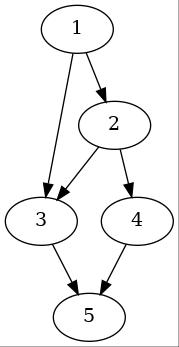
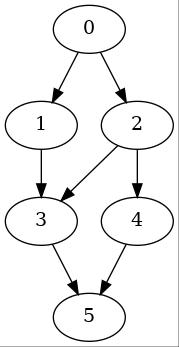
Add Lab 11

diff --git a/Grafos/Grafo_Lab_11.cpp b/Grafos/Grafo_Lab_11.cpp
@@ -1,0 +1,184 @@
+#include <bits/stdc++.h>
+using namespace std;
+
+class GraphLista{
+private:
+	int numNodos; // Numero de Nodos
+	vector<vector<int>> lista; // Grafo - Listas de Adyacencia
+	vector<bool> v;
+	vector<bool> visited;
+	bool vis[10000]={false};
+
+public:
+	GraphLista(int numNodos){
+		this->numNodos = numNodos;
+		this->lista.resize(numNodos + 1);
+	}
+
+	void insertarNodo(int nodo){
+		if(nodo > lista.size()){
+			this->numNodos++;
+			lista.resize(numNodos);
+		}
+	}
+
+	void insertarArista(int nodoA, int nodoB){
+		lista[nodoA].push_back(nodoB);
+		// lista[nodoB].push_back(nodoA);
+	}
+
+	void borrarNodo(int nodo){
+		if(nodo < lista.size()){
+			vector<int>::iterator it;
+			for(size_t i = 0; i < numNodos; i++){
+				borrarArista(i, nodo);
+			}
+			lista.erase(lista.begin()+nodo);
+			this->numNodos--;	
+		}
+		
+	}
+
+	void borrarArista(int nodoA, int nodoB){
+		vector<int>::iterator it;
+		it = find(lista[nodoA].begin(), lista[nodoA].end(), nodoB);
+		
+		if(it != lista[nodoA].end()) lista[nodoA].erase(it);
+	}
+
+	bool esVacio() const {
+		if(lista.size() == 0) return true;
+		else return false;
+	}
+
+	bool existeNodo(int nodo) const {
+		if(nodo < lista.size()) return true;
+		else return false;
+	}
+
+	bool sonAdyacentes(int nodoA, int nodoB) const {
+		for(int i = 0; i < lista[nodoA].size(); i++){
+			if(lista[nodoA][i] == nodoB) return true;
+		}
+		return false;
+	}
+
+	void verAdyacencias() const {
+		for(int i = 0; i < lista.size(); i++){
+			cout << "vertice " << i << " -> ";
+			for(int j = 0; j < lista[i].size(); j++){
+				cout << lista[i][j] << ' ';
+			}
+			cout << '\n';
+		}
+	}
+
+	void dfs(int i){
+        if(vis[i]==false){
+            vis[i]=true;
+            cout << i << " - ";
+            for(int it:lista[i]){
+                if(vis[it]==false){
+                    dfs(it);
+                }
+            }
+        }
+    }
+
+	void bfs(int u){
+	    queue<int> q;
+        vector<int> visited(numNodos);
+        q.push(u);
+        visited[u]=1;
+        while(not q.empty()){
+            int temp=q.front();
+            cout << temp << " - ";
+            q.pop();
+            for(int i=0;i<lista[temp].size();i++){
+                if(visited[lista[temp][i]]==0){
+                    visited[lista[temp][i]]=1;
+                    q.push(lista[temp][i]);
+                }
+            }
+        }
+	}
+
+	void graficar(){
+	    FILE * file;
+	    file = fopen("grafo.dot","w+");
+	    fprintf(file,"digraph G {\n");
+	    getDot(file);
+	    fprintf(file,"}");
+	    fclose(file);
+	    system("dot grafo.dot -o grafica.jpg -Tjpg -Grankdir=TB && xdg-open grafica.jpg");
+	}
+
+	void getDot(FILE * file){
+
+		for(int i = 0; i < lista.size(); i++){
+			fprintf(file,"x%d[label=\"%i\"];\n",i,i);
+			for(int j = 0; j < lista[i].size(); j++){
+				fprintf(file,"x%d->x%d[arrowhead = normal];\n",i,lista[i][j]);
+			}
+		}
+	}
+
+};
+
+
+int main(){
+
+	// n: numero de vertices
+	// m: numero de aristas
+	int n,m;
+	cin>>n>>m;
+	GraphLista grafo(n-1);
+
+	// arista de a -> b
+	int a,b;
+	while(m--){
+		cin>>a>>b;
+		grafo.insertarArista(a,b);
+	}
+
+	cout << "Grafo Original" << '\n';
+	grafo.verAdyacencias();
+
+	cout << '\n';
+    
+    /*
+	cout << "Insertar Arista 3-4" << '\n';
+	grafo.insertarArista(3,4);
+	grafo.verAdyacencias();
+
+	cout << '\n';
+
+	// cout << "Eliminar nodo 3" << '\n';
+	// grafo.borrarNodo(3);
+	// grafo.verAdyacencias();
+
+	cout << "Borrar Arista 3-4" << '\n';
+	grafo.borrarArista(3,4);
+	grafo.verAdyacencias();
+
+	cout << '\n';
+
+	cout << "Es vacio? " << grafo.esVacio() << '\n';
+	cout << "Existe nodo 3? " << grafo.existeNodo(3) << '\n';
+	cout << "Son Adyacentes? 1-3? " << grafo.sonAdyacentes(1,3) << '\n';
+
+	cout << '\n';
+    */
+    
+	cout << "BFS:" << '\n';
+	grafo.bfs(0);
+	
+	cout << '\n';
+	
+	cout << "DFS:" << '\n';
+	grafo.dfs(0);
+
+	grafo.graficar();
+
+	return 0;
+}

diff --git a/Grafos/Grafo_Lab_10.cpp b/Grafos/Grafo_Lab_10.cpp
@@ -1,0 +1,141 @@
+#include <bits/stdc++.h>
+using namespace std;
+
+class GraphLista{
+private:
+	int numNodos; // Numero de Nodos
+	vector<vector<int>> lista; // Grafo - Listas de Adyacencia
+public:
+	GraphLista(int numNodos){
+		this->numNodos = numNodos;
+		this->lista.resize(numNodos + 1);
+	}
+
+	void insertarNodo(int nodo){
+		if(nodo > lista.size()){
+			this->numNodos++;
+			lista.resize(numNodos);
+		}
+	}
+
+	void insertarArista(int nodoA, int nodoB){
+		lista[nodoA].push_back(nodoB);
+	}
+
+	void borrarNodo(int nodo){
+		if(nodo < lista.size()){
+			vector<int>::iterator it;
+			for(size_t i = 0; i < numNodos; i++){
+				borrarArista(i, nodo);
+			}
+			lista.erase(lista.begin()+nodo);
+			this->numNodos--;	
+		}
+		
+	}
+
+	void borrarArista(int nodoA, int nodoB){
+		vector<int>::iterator it;
+		it = find(lista[nodoA].begin(), lista[nodoA].end(), nodoB);
+		
+		if(it != lista[nodoA].end()) lista[nodoA].erase(it);
+	}
+
+	bool esVacio() const {
+		if(lista.size() == 0) return true;
+		else return false;
+	}
+
+	bool existeNodo(int nodo) const {
+		if(nodo < lista.size()) return true;
+		else return false;
+	}
+
+	bool sonAdyacentes(int nodoA, int nodoB) const {
+		for(int i = 0; i < lista[nodoA].size(); i++){
+			if(lista[nodoA][i] == nodoB) return true;
+		}
+		return false;
+	}
+
+	void verAdyacencias() const {
+		for(int i = 0; i < lista.size(); i++){
+			cout << "vertice " << i << " -> ";
+			for(int j = 0; j < lista[i].size(); j++){
+				cout << lista[i][j] << ' ';
+			}
+			cout << '\n';
+		}
+	}
+
+	void graficar(){
+	    FILE * file;
+	    file = fopen("grafo.dot","w+");
+	    fprintf(file,"digraph G {\n");
+	    getDot(file);
+	    fprintf(file,"}");
+	    fclose(file);
+	    system("dot grafo.dot -o grafica.jpg -Tjpg -Grankdir=TB && xdg-open grafica.jpg");
+	}
+
+	void getDot(FILE * file){
+
+		for(int i = 1; i < lista.size(); i++){
+			fprintf(file,"x%d[label=\"%i\"];\n",i,i);
+			for(int j = 0; j < lista[i].size(); j++){
+				fprintf(file,"x%d->x%d[arrowhead = normal];\n",i,lista[i][j]);
+			}
+		}
+	}
+
+};
+
+
+int main(){
+
+	// n: numero de vertices
+	// m: numero de aristas
+	int n,m;
+	cin>>n>>m;
+	GraphLista grafo(n);
+
+	// arista de a -> b
+	int a,b;
+	while(m--){
+		cin>>a>>b;
+		grafo.insertarArista(a,b);
+	}
+
+	cout << "Grafo Original" << '\n';
+	grafo.verAdyacencias();
+
+	cout << '\n';
+
+	cout << "Insertar Arista 3-4" << '\n';
+	grafo.insertarArista(3,4);
+	grafo.verAdyacencias();
+
+	cout << '\n';
+
+	// cout << "Eliminar nodo 3" << '\n';
+	// grafo.borrarNodo(3);
+	// grafo.verAdyacencias();
+
+	cout << "Borrar Arista 3-4" << '\n';
+	grafo.borrarArista(3,4);
+	grafo.verAdyacencias();
+
+	cout << '\n';
+
+	cout << "Es vacio? " << grafo.esVacio() << '\n';
+	cout << "Existe nodo 3? " << grafo.existeNodo(3) << '\n';
+	cout << "Son Adyacentes? 1-3? " << grafo.sonAdyacentes(1,3) << '\n';
+
+	cout << '\n';
+
+	grafo.graficar();
+
+
+
+	return 0;
+}

diff --git a/Grafos/block.cpp b/Grafos/block.cpp
@@ -1,0 +1,10 @@
+#include<bits/stdc++.h>
+using namespace std;
+
+
+int main(){
+ 
+ std::cout << "Pruebas" << '\n';
+
+
+}
